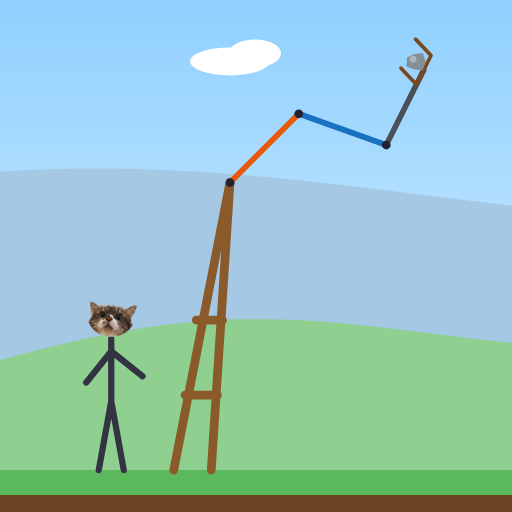
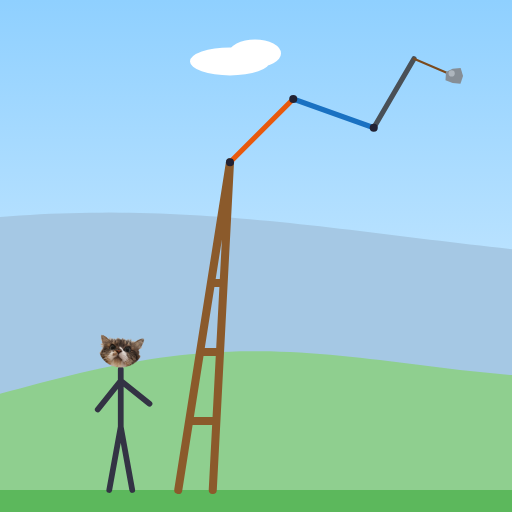
WIP: 三重振り子投石機 カゴをスリングに変更
Claude-Session: https://claude.ai/code/session_01EV6e73iSUDeLrtgfrLdLpL

Changed region(s): [[0.0, 0.0625, 1.0, 1.0], [0.2812, 0.7812, 0.3125, 0.8125]]

diff --git a/games/pendulum-trebuchet/index.html b/games/pendulum-trebuchet/index.html
@@ -116,29 +116,26 @@ function beep(freq, dur, type = 'square', vol = .2, slide = 0) {
 // ---- world (meters) ----
 const catImg = new Image(); catImg.src = 'cat.png';
 const cv = $('cv'), mainCtx = cv.getContext('2d');
-const SH = { x: 0, y: 2.3 };              // pivot on top of the tower
+const SH = { x: 0, y: 2.85 };             // pivot on top of the tower
 const LEN = [0.8, 0.75, 0.7];
 const G = 9.8, DT = 1 / 480;
-const CUP_W = 0.13, CUP_D = 0.35, CUP_TILT = -85 * Math.PI / 180; // opening points almost sideways from the link
+// sling (like a real trebuchet): the rock hangs from the tip on a rope; the rope's ring slips off the pin
+// when the rope swings out to line up with the last link (after having been folded back)
 const ROCK_R = 0.09;
-let pts, rock, state, grab, camX = 0, camY = 0, best = store.get('best', null), finalDist = 0, wait = 0, swishT = 0, tipOver = 0, still = 0; // tipOver: when the swing has died down, the cup slowly tips so the rock always rolls out
+const SLING = 0.4, ARM_ANG = 100 * Math.PI / 180, REL_ANG = 25 * Math.PI / 180;
+let pts, rock, state, grab, camX = 0, camY = 0, best = store.get('best', null), finalDist = 0, wait = 0, swishT = 0
 
 function reset() {
   pts = []; let y = SH.y;
   for (let i = 0; i < 3; i++) { y -= LEN[i]; pts.push({ x: SH.x, y, px: SH.x, py: y }); }
-  const c = cupFrame();
-  rock = { x: pts[2].x + c.n.x * ROCK_R, y: pts[2].y + c.n.y * ROCK_R, px: 0, py: 0, free: false, vx: 0, vy: 0, land: null, stopped: false, spin: 0 };
-  rock.px = rock.x; rock.py = rock.y;
-  camX = 0; camY = 0; grab = null; state = 'ready'; finalDist = 0; wait = 0; tipOver = 0; still = 0;
+  rock = { x: 0, y: 0, px: 0, py: 0, armed: false, free: false, vx: 0, vy: 0, land: null, stopped: false, spin: 0 };
+  camX = 0; camY = 0; grab = null; state = 'ready'; finalDist = 0; wait = 0;
   rec = []; recT = 0; gameId++; shareFile = null; videoJob = null;
 }
-// n: direction the cup opens (tilted from the link), u: across the cup
-function cupFrame() {
+// unit vector along the last link (outward)
+function linkDir() {
   const a = pts[1], b = pts[2], d = Math.hypot(b.x - a.x, b.y - a.y) || 1;
-  const u = { x: (b.x - a.x) / d, y: (b.y - a.y) / d };
-  const th = Math.PI + CUP_TILT - tipOver;
-  const n = { x: u.x * Math.cos(th) - u.y * Math.sin(th), y: u.x * Math.sin(th) + u.y * Math.cos(th) };
-  return { u: { x: n.y, y: -n.x }, n }; // u: across the cup (kept perpendicular to n)
+  return { x: (b.x - a.x) / d, y: (b.y - a.y) / d };
 }
 
 function step(dt) {
@@ -160,27 +157,27 @@ function step(dt) {
   if (state === 'ready' || grab) { for (const p of pts) { p.px = p.x; p.py = p.y; } }
   const tip = pts[2];
   if (!rock.free) {
-    const c = cupFrame();
+    const u = linkDir();
     if (state === 'ready') {
-      rock.x = tip.x + c.n.x * ROCK_R; rock.y = tip.y + c.n.y * ROCK_R; rock.px = rock.x; rock.py = rock.y;
+      // rope folded back along the last link
+      rock.x = tip.x - u.x * SLING; rock.y = Math.max(ROCK_R, tip.y - u.y * SLING); rock.px = rock.x; rock.py = rock.y; rock.armed = false;
     } else {
       const vx = rock.x - rock.px, vy = rock.y - rock.py;
       rock.px = rock.x; rock.py = rock.y; rock.x += vx; rock.y += vy - G * dt * dt;
-      let ex = rock.x - tip.x, ey = rock.y - tip.y;
-      let a = ex * c.u.x + ey * c.u.y, b = ex * c.n.x + ey * c.n.y;
-      if (b > CUP_D) {
+      // rope: can only pull
+      let ex = rock.x - tip.x, ey = rock.y - tip.y, d = Math.hypot(ex, ey) || 1e-6;
+      if (d > SLING) { rock.x = tip.x + ex / d * SLING; rock.y = tip.y + ey / d * SLING; d = SLING; }
+      if (rock.y < ROCK_R) { rock.y = ROCK_R; rock.px += (rock.x - rock.px) * 0.3; }
+      const ang = Math.acos(Math.max(-1, Math.min(1, (ex * u.x + ey * u.y) / d)));
+      if (ang > ARM_ANG) rock.armed = true;
+      if (rock.armed && ang < REL_ANG && d > SLING * 0.97) {
         rock.free = true;
         rock.vx = (rock.x - rock.px) / dt; rock.vy = (rock.y - rock.py) / dt;
         beep(400, .25, 'sine', .2, 1100);
-      } else {
-        a = Math.max(-CUP_W + ROCK_R, Math.min(CUP_W - ROCK_R, a)); b = Math.max(ROCK_R, b);
-        rock.x = tip.x + c.u.x * a + c.n.x * b; rock.y = tip.y + c.u.y * a + c.n.y * b;
       }
     }
     if (state === 'swing') {
       const sp = Math.hypot(tip.x - tip.px, tip.y - tip.py) / dt;
-      still = sp < 0.5 ? still + dt : 0;
-      if (still > 1.5) tipOver = Math.min(1.2, tipOver + 0.5 * dt);
       swishT -= dt;
       if (sp > 6 && swishT <= 0) { beep(200 + sp * 15, .12, 'sine', .06, 120); swishT = 0.35; }
     }
@@ -257,8 +254,8 @@ function resize() {
   layout(r.width, r.height, 80);
 }
 function layout(W, H, pad) {
-  groundY = Math.min(H - pad - Math.max(30, H * 0.08), Math.max(H * 0.6, 3.4 * Math.min(W / 5, 170)));
-  scale = Math.min((groundY - 30) / 3.0, W / 5);
+  groundY = Math.min(H - pad - Math.max(30, H * 0.08), Math.max(H * 0.68, 4.0 * Math.min(W / 5, 170)));
+  scale = Math.min((groundY - 30) / 3.6, W / 5);
   originX = W * 0.5;
 }
 addEventListener('resize', resize);
@@ -308,7 +305,7 @@ function draw(ctx = mainCtx, W = cv.clientWidth, H = cv.clientHeight) {
   // tower
   ctx.strokeStyle = '#8b5a2b'; ctx.lineCap = 'round'; ctx.lineJoin = 'round'; ctx.lineWidth = Math.max(4, scale * 0.07);
   ctx.beginPath(); ctx.moveTo(X(-0.45), Y(0)); ctx.lineTo(X(0), Y(SH.y)); ctx.lineTo(X(-0.15), Y(0));
-  ctx.moveTo(X(-0.36), Y(0.6)); ctx.lineTo(X(-0.1), Y(0.6)); ctx.moveTo(X(-0.27), Y(1.2)); ctx.lineTo(X(-0.06), Y(1.2)); ctx.stroke();
+  for (const y of [0.6, 1.2, 1.8]) { ctx.moveTo(X(-0.45 * (1 - y / SH.y)), Y(y)); ctx.lineTo(X(-0.15 * (1 - y / SH.y)), Y(y)); } ctx.stroke();
   // cat-headed watcher
   ctx.strokeStyle = '#334'; ctx.lineWidth = Math.max(3, scale * 0.05);
   ctx.beginPath(); ctx.moveTo(X(-1.05), Y(0)); ctx.lineTo(X(-0.95), Y(0.55)); ctx.lineTo(X(-0.85), Y(0)); ctx.moveTo(X(-0.95), Y(0.55)); ctx.lineTo(X(-0.95), Y(1.05));
@@ -326,10 +323,8 @@ function draw(ctx = mainCtx, W = cv.clientWidth, H = cv.clientHeight) {
     ctx.fillStyle = '#223'; ctx.beginPath(); ctx.arc(X(prev.x), Y(prev.y), Math.max(3, scale * 0.035), 0, 7); ctx.fill();
     prev = p;
   }
-  // cup (U shape opening toward n)
-  { const c = cupFrame(), tp = pts[2], P = (a, b) => [X(tp.x + c.u.x * a + c.n.x * b), Y(tp.y + c.u.y * a + c.n.y * b)];
-    ctx.strokeStyle = '#7a4a1e'; ctx.lineWidth = Math.max(3, scale * 0.03);
-    ctx.beginPath(); ctx.moveTo(...P(-CUP_W, CUP_D)); ctx.lineTo(...P(-CUP_W, 0)); ctx.lineTo(...P(CUP_W, 0)); ctx.lineTo(...P(CUP_W, CUP_D)); ctx.stroke(); }
+  // sling rope
+  if (!rock.free) { ctx.strokeStyle = '#7a4a1e'; ctx.lineWidth = Math.max(2, scale * 0.015); ctx.beginPath(); ctx.moveTo(X(pts[2].x), Y(pts[2].y)); ctx.lineTo(X(rock.x), Y(rock.y)); ctx.stroke(); }
   // rock
   if (rock.free) { ctx.fillStyle = 'rgba(0,0,0,.2)'; ctx.beginPath(); ctx.ellipse(X(rock.x), GY + 2, ROCK_R * scale * 1.2, ROCK_R * scale * 0.35, 0, 0, 7); ctx.fill(); }
   { const r = Math.max(5, ROCK_R * scale);
